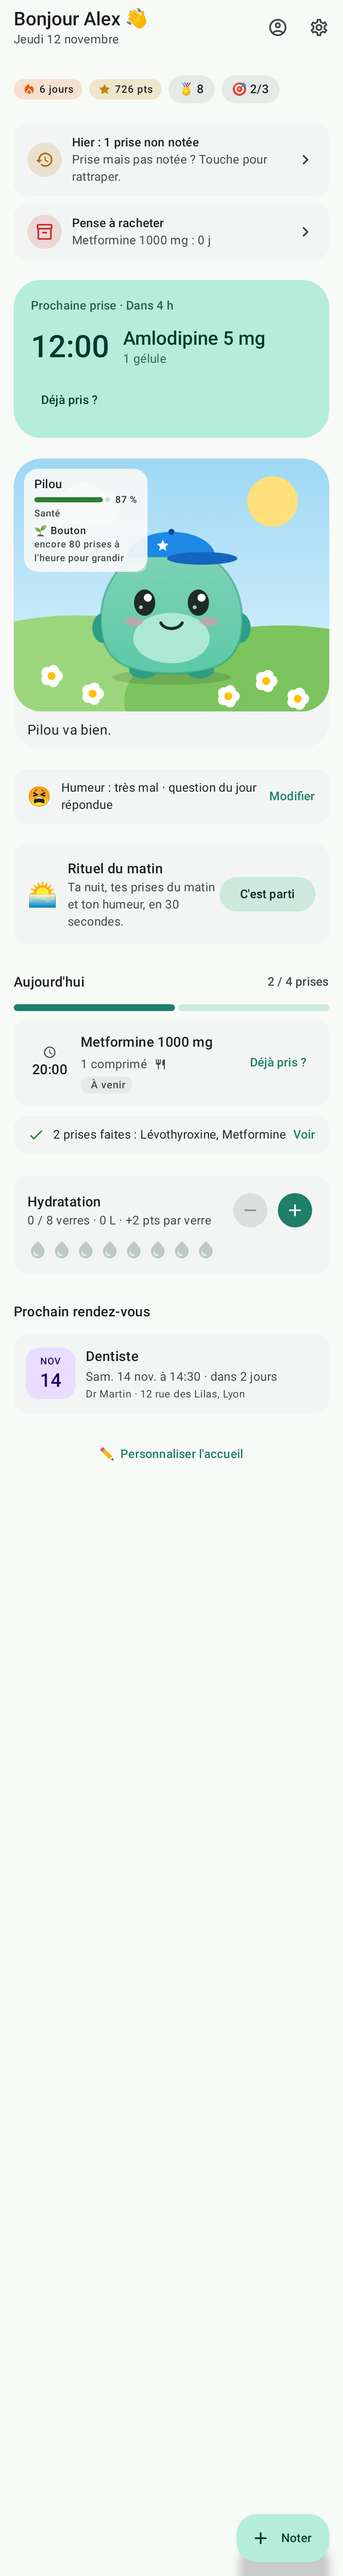
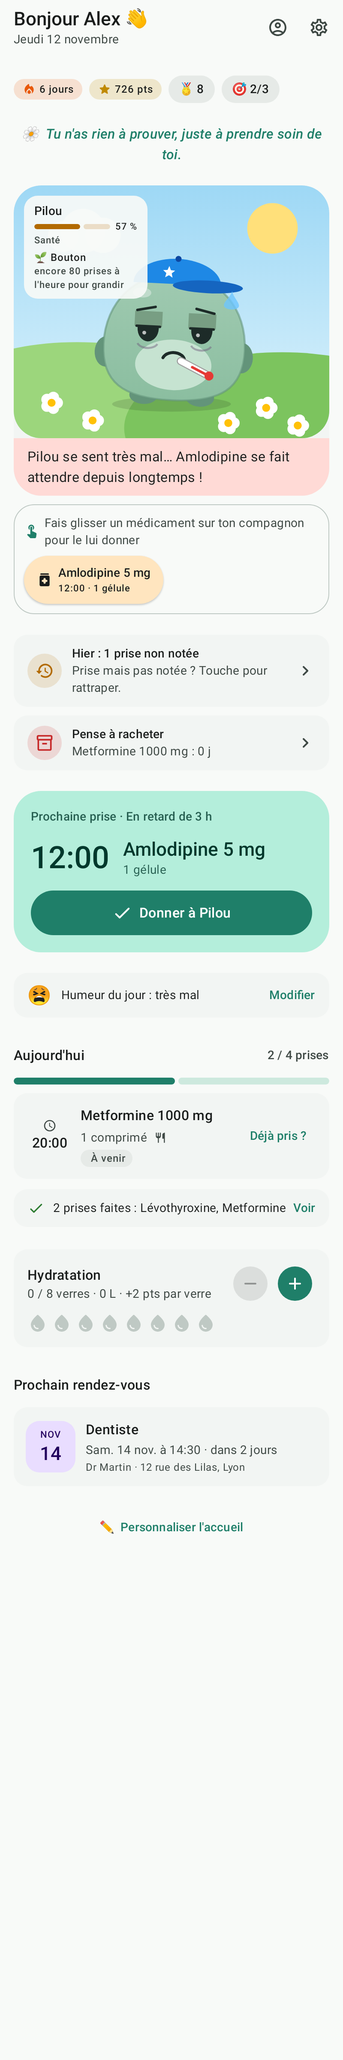
MédiPote 1.11.4: companion right under the phrase of the day
Home order: status, phrase, companion, alerts, next dose. A saved order
is updated once (the rest of it is kept).

Claude-Session: https://claude.ai/code/session_01VmKWzz383TGuTeEhcBgN5q

diff --git a/medipote/src/main/kotlin/com/medipote/app/data/Look.kt b/medipote/src/main/kotlin/com/medipote/app/data/Look.kt
@@ -7,8 +7,8 @@ import kotlinx.serialization.Serializable
 enum class HomeSection(val label: String, val emoji: String, val hint: String = "") {
     STATUS("Série, points et défis", "🔥"),
     PHRASE("Phrase du jour", "🌼", "Une petite phrase douce, différente chaque jour"),
-    NEXT_DOSE("Prochaine prise, en grand", "⏰"),
     COMPANION("Compagnon", "🐾"),
+    NEXT_DOSE("Prochaine prise, en grand", "⏰"),
     MOOD("Humeur du jour", "😊", "Se replie en une ligne une fois notée"),
     RITUAL("Rituel du matin / du soir", "✨", "Le matin et le soir seulement"),
     PERIOD("Protection pendant les règles", "🩸", "Pendant les règles ou quand un minuteur tourne"),
@@ -49,6 +49,8 @@ data class Look(
     /** No longer shown (replaced by the phrase of the day); kept so old saves still load. */
     val motto: String = "",
     val homeOrder: List<HomeSection> = HomeSection.entries,
+    /** 1 = the companion comes right under the phrase of the day, the next dose after the alerts. */
+    val layoutVersion: Int = 0,
     val hiddenSections: Set<HomeSection> = emptySet(),
     /** Celebration animations (daily streak…). */
     val celebrations: Boolean = true,
@@ -65,10 +67,23 @@ data class Look(
             return order
         }
 
+    /**
+     * One-time update of a saved order (the same result on a fresh one): the companion goes right
+     * under the status line and the phrase, then the next dose; everything else keeps its place.
+     */
+    fun migrated(): Look {
+        if (layoutVersion >= LAYOUT_VERSION) return this
+        val rest = fullOrder.filter { it != HomeSection.COMPANION && it != HomeSection.NEXT_DOSE }
+        val top = rest.takeWhile { it == HomeSection.STATUS || it == HomeSection.PHRASE }
+        val order = top + listOf(HomeSection.COMPANION, HomeSection.NEXT_DOSE) + rest.drop(top.size)
+        return copy(homeOrder = order, layoutVersion = LAYOUT_VERSION)
+    }
+
     val visibleSections: List<HomeSection>
         get() = fullOrder.filter { it !in hiddenSections }
 
     companion object {
+        const val LAYOUT_VERSION = 1
         val AVATARS = listOf(
             "👋", "😊", "🌸", "🌻", "🌿", "🍀", "🌈", "⭐", "🌙", "☀", "🔥", "💜",
             "🐱", "🐶", "🦊", "🐼", "🐸", "🦄", "🐝", "🦋", "🍓", "🍵", "🎧", "🎨",

diff --git a/medipote/src/test/kotlin/com/medipote/app/V14Test.kt b/medipote/src/test/kotlin/com/medipote/app/V14Test.kt
@@ -114,11 +114,36 @@ class V14Test {
         // Sections missing from the saved order (added by an update) go after the one they follow by default.
         assertEquals(
             listOf(
-                HomeSection.STATUS, HomeSection.PHRASE, HomeSection.NEXT_DOSE, HomeSection.WATER, HomeSection.PROMPTS,
+                HomeSection.STATUS, HomeSection.PHRASE, HomeSection.WATER, HomeSection.PROMPTS,
                 HomeSection.CHALLENGES, HomeSection.GARDEN, HomeSection.DOSES, HomeSection.AS_NEEDED, HomeSection.MEASURES,
-                HomeSection.COMPANION, HomeSection.MOOD, HomeSection.RITUAL, HomeSection.PERIOD,
+                HomeSection.COMPANION, HomeSection.NEXT_DOSE, HomeSection.MOOD, HomeSection.RITUAL, HomeSection.PERIOD,
             ),
             look.visibleSections,
         )
+    }
+
+    @Test
+    fun theCompanionComesUnderThePhraseForSavedLayoutsToo() {
+        // An order saved by the previous version: companion after the next dose, alerts in between.
+        val saved = Look(
+            homeOrder = listOf(
+                HomeSection.STATUS, HomeSection.PHRASE, HomeSection.NEXT_DOSE, HomeSection.COMPANION, HomeSection.MOOD,
+                HomeSection.DOSES, HomeSection.WATER,
+            ),
+            hiddenSections = setOf(HomeSection.WATER),
+        )
+        val migrated = saved.migrated()
+        assertEquals(
+            listOf(HomeSection.STATUS, HomeSection.PHRASE, HomeSection.COMPANION, HomeSection.NEXT_DOSE, HomeSection.MOOD),
+            migrated.fullOrder.take(5),
+        )
+        assertTrue(migrated.fullOrder.indexOf(HomeSection.DOSES) > migrated.fullOrder.indexOf(HomeSection.MOOD))
+        assertEquals(setOf(HomeSection.WATER), migrated.hiddenSections)
+        assertEquals(Look.LAYOUT_VERSION, migrated.layoutVersion)
+        // Done once: a later change by the user is left alone, and a fresh install already has this order.
+        val reordered = migrated.copy(homeOrder = migrated.fullOrder.reversed())
+        assertEquals(reordered, reordered.migrated())
+        assertEquals(Look().fullOrder, Look().migrated().fullOrder)
+        assertEquals(listOf(HomeSection.STATUS, HomeSection.PHRASE, HomeSection.COMPANION, HomeSection.NEXT_DOSE), Look().fullOrder.take(4))
     }
 }

diff --git a/medipote/src/main/kotlin/com/medipote/app/data/AppRepository.kt b/medipote/src/main/kotlin/com/medipote/app/data/AppRepository.kt
@@ -70,7 +70,9 @@ class AppRepository(private val file: File, clock: Clock = Clock.systemDefaultZo
     private fun load(): AppState {
         if (!file.exists()) return AppState()
         return try {
-            json.decodeFromString(AppState.serializer(), AtomicFile(file).readFully().decodeToString())
+            json.decodeFromString(AppState.serializer(), AtomicFile(file).readFully().decodeToString()).let { s ->
+                s.copy(settings = s.settings.copy(look = s.settings.look.migrated()))
+            }
         } catch (e: Exception) {
             // Never lose data silently: keep the unreadable file aside before starting fresh,
             // since the next save would overwrite it.

diff --git a/medipote/src/main/kotlin/com/medipote/app/ui/home/HomeScreen.kt b/medipote/src/main/kotlin/com/medipote/app/ui/home/HomeScreen.kt
@@ -324,8 +324,9 @@ fun HomeScreen(
 
     val blocks = buildList<@Composable () -> Unit> {
         val rest = sections.toMutableList()
-        // The status line and the phrase of the day stay on top, above the alerts.
+        // The status line and the phrase of the day stay on top, then the companion, then the alerts.
         while (rest.firstOrNull() in setOf(HomeSection.STATUS, HomeSection.PHRASE)) block(rest.removeAt(0))?.let(::add)
+        if (rest.firstOrNull() == HomeSection.COMPANION) block(rest.removeAt(0))?.let(::add)
         alerts?.let(::add)
         rest.forEach { section -> block(section)?.let(::add) }
     }

diff --git a/medipote/src/test/kotlin/com/medipote/app/ScreensTest.kt b/medipote/src/test/kotlin/com/medipote/app/ScreensTest.kt
@@ -760,6 +760,13 @@ class ScreensTest {
     }
 
     @Test
+    @Config(qualifiers = "w400dp-h2400dp-xhdpi")
+    fun homeCompanionUnderThePhrase() {
+        render("home_order") { HomeScreen(motivationState(), today.atTime(15, 0), 0, 0, {}, {}, {}, {}, animate = false) }
+        compose.onNodeWithText(com.medipote.app.domain.DailyPhrases.of(today), substring = true).assertExists()
+    }
+
+    @Test
     @Config(qualifiers = "w400dp-h1400dp-xhdpi")
     fun homeAtNight() {
         render("home_night") { HomeScreen(motivationState(), today.atTime(21, 30), 0, 0, {}, {}, {}, {}, animate = false) }

diff --git a/medipote/RELEASE.md b/medipote/RELEASE.md
@@ -66,6 +66,13 @@ L'optimiseur de R8 reste désactivé (`-dontoptimize`) : APK de 3,8 Mo au lieu d
 le dex livré peut être reconverti et exécuté hors appareil pour vérification (voir plus bas),
 ce que l'optimiseur empêche. Il pourra être réactivé après des essais sur téléphone.
 
+### 1.11.4
+
+- Accueil : le compagnon passe juste sous la série et la phrase du jour, puis viennent les
+  alertes (« Pense à racheter »…) et la prochaine prise. L'ordre déjà enregistré est mis à jour
+  une seule fois (le reste de ton ordre est gardé) ; Paramètres › Mon accueil permet toujours de
+  tout réorganiser.
+
 ### 1.11.3
 
 - Écran de la série : le titre (« Ça continue ! »…) était noir sur le fond sombre du thème
